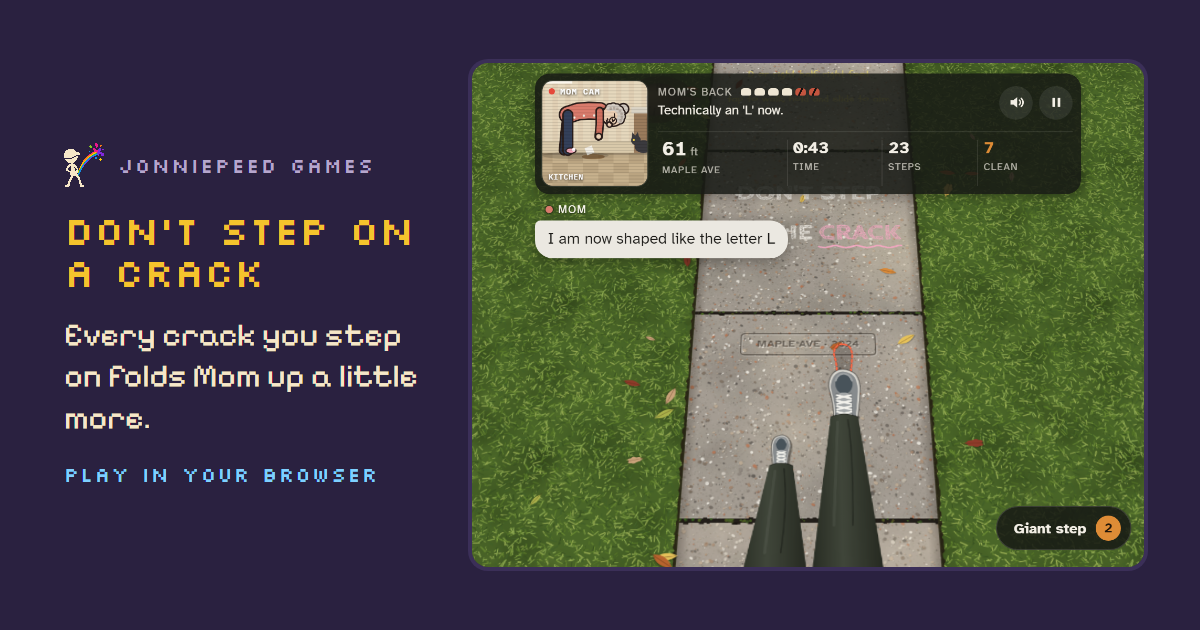
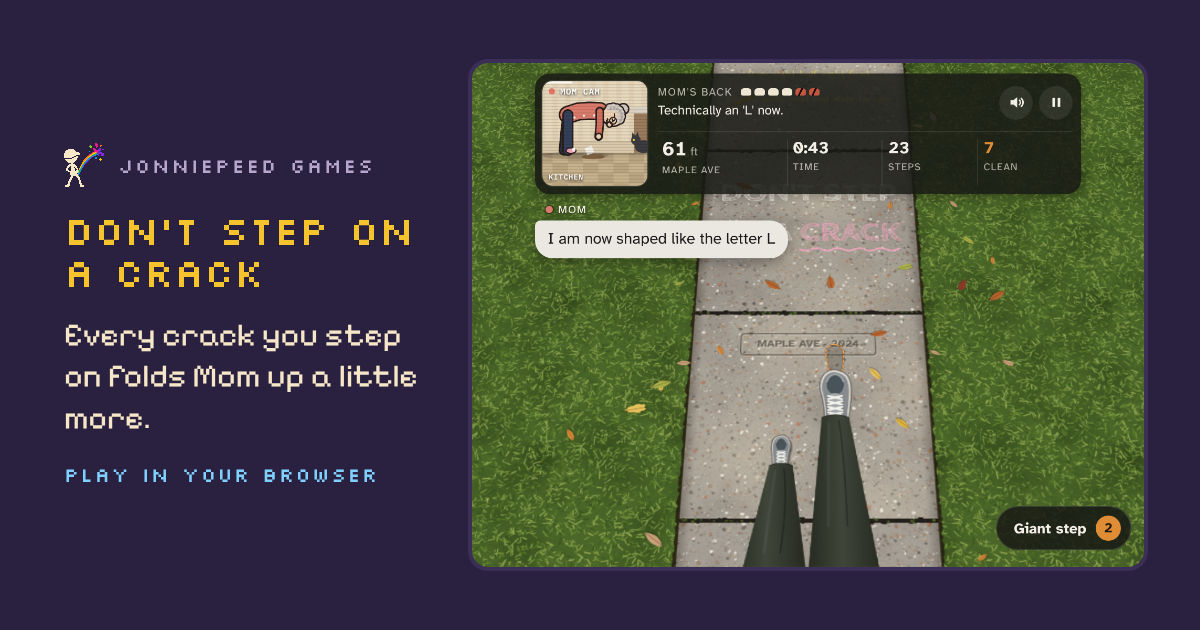
Crack: title and sidewalk chalk say "on a crack"; rebuild its preview card
Claude-Session: https://claude.ai/code/session_013nkDz5hsq9tbfZtJqMt9Ru

diff --git a/site/dont-step-on-a-crack/index.html b/site/dont-step-on-a-crack/index.html
@@ -11,14 +11,14 @@
 <meta property="og:title" content="Don't Step on a Crack · JonniePeed Games">
 <meta property="og:description" content="Step on a crack, break your mother's back. Every one you step on folds Mom up a little more, and she'll be sure to make you feel bad about it.">
 <meta property="og:url" content="https://jonniesparkles.github.io/jonniepeed-games/dont-step-on-a-crack/index.html">
-<meta property="og:image" content="https://jonniesparkles.github.io/jonniepeed-games/assets/og/dont-step-on-a-crack.png?v=2db2985a9f">
+<meta property="og:image" content="https://jonniesparkles.github.io/jonniepeed-games/assets/og/dont-step-on-a-crack.png?v=8b6f8e6532">
 <meta property="og:image:width" content="1200">
 <meta property="og:image:height" content="630">
 <meta property="og:image:alt" content="Looking down at your sneakers on a cracked sidewalk, with a security-camera view of Mom folded in half in her kitchen">
 <meta name="twitter:card" content="summary_large_image">
 <meta name="twitter:title" content="Don't Step on a Crack · JonniePeed Games">
 <meta name="twitter:description" content="Step on a crack, break your mother's back. Every one you step on folds Mom up a little more, and she'll be sure to make you feel bad about it.">
-<meta name="twitter:image" content="https://jonniesparkles.github.io/jonniepeed-games/assets/og/dont-step-on-a-crack.png?v=2db2985a9f">
+<meta name="twitter:image" content="https://jonniesparkles.github.io/jonniepeed-games/assets/og/dont-step-on-a-crack.png?v=8b6f8e6532">
 <meta name="twitter:image:alt" content="Looking down at your sneakers on a cracked sidewalk, with a security-camera view of Mom folded in half in her kitchen">
 <link rel="icon" href="../favicon.ico?v=443c0101ac" sizes="any">
 <link rel="icon" type="image/png" href="../assets/favicon-32.png?v=569f3f592d">
@@ -328,7 +328,7 @@ html,body{height:100%;margin:0;overflow:hidden;background:var(--ground);color:va
       <a class="studio" href="../index.html"><img src="../assets/mark-pixel-dark.png?v=39bbd450b3" width="40" height="44" alt="">JonniePeed Games</a>
       <div class="t-wrap">
         <header class="t-head">
-          <h1 class="t-title chalky"><span class="l1">Don't step</span><span class="l2">on the</span><span class="l3">crack<svg class="fissure" viewBox="0 0 100 100" preserveAspectRatio="none" aria-hidden="true"><path d="M4 30 L18 44 L15 52 L31 58 L36 70 L52 64 L60 78 L74 72 L83 86 L97 80"/></svg><svg class="scrib" viewBox="0 0 200 20" preserveAspectRatio="none" aria-hidden="true"><path d="M3 12 C 28 3, 52 19, 78 10 S 124 3, 150 12 S 184 17, 197 7"/></svg></span></h1>
+          <h1 class="t-title chalky"><span class="l1">Don't step</span><span class="l2">on a</span><span class="l3">crack<svg class="fissure" viewBox="0 0 100 100" preserveAspectRatio="none" aria-hidden="true"><path d="M4 30 L18 44 L15 52 L31 58 L36 70 L52 64 L60 78 L74 72 L83 86 L97 80"/></svg><svg class="scrib" viewBox="0 0 200 20" preserveAspectRatio="none" aria-hidden="true"><path d="M3 12 C 28 3, 52 19, 78 10 S 124 3, 150 12 S 184 17, 197 7"/></svg></span></h1>
           <p class="t-rhyme chalky">Step on a crack, break your mother's back.</p>
         </header>
         <section class="t-mom" aria-label="Mom">
@@ -396,6 +396,6 @@ html,body{height:100%;margin:0;overflow:hidden;background:var(--ground);color:va
 </div>
 <script src="audio.js?v=ee24ca3134"></script>
 <script src="../assets/leaderboard.js?v=8745bbbf93"></script>
-<script src="game.js?v=38b9741640"></script>
+<script src="game.js?v=f572faaa56"></script>
 </body>
 </html>

diff --git a/site/dont-step-on-a-crack/game.js b/site/dont-step-on-a-crack/game.js
@@ -526,10 +526,10 @@ function drawChalk(g,c,sl,d0,tx,ty){
   if(sl.chalk==='title'){
     let fs=0.95*K; const font=f=>`700 ${f}px "Cabin Sketch", "Schoolbell", cursive`;
     h.font=font(fs);
-    const w=Math.max(h.measureText("DON'T STEP").width,h.measureText('ON THE CRACK').width);
+    const w=Math.max(h.measureText("DON'T STEP").width,h.measureText('ON A CRACK').width);
     fs*=Math.min(1,4.3*K/w); h.font=font(fs);
     h.textAlign='center'; h.fillStyle='#fbf8f1'; h.fillText("DON'T STEP",tx(2.5),ty(d0+3.55));
-    const a='ON THE ', b='CRACK', wa=h.measureText(a).width, wb=h.measureText(b).width, x0=tx(2.5)-(wa+wb)/2, y2=ty(d0+2.3);
+    const a='ON A ', b='CRACK', wa=h.measureText(a).width, wb=h.measureText(b).width, x0=tx(2.5)-(wa+wb)/2, y2=ty(d0+2.3);
     h.textAlign='left'; h.fillText(a,x0,y2); h.fillStyle='#f7a8c4'; h.fillText(b,x0+wa,y2);
     h.strokeStyle='#f7a8c4'; h.lineWidth=0.05*K; h.lineCap='round'; h.beginPath();
     for(let x=0;x<=wb;x+=4){const yy=y2+fs*0.58+Math.sin(x*0.25)*fs*0.05; x?h.lineTo(x0+wa+x,yy):h.moveTo(x0+wa+x,yy);} h.stroke();

diff --git a/site/index.html b/site/index.html
@@ -83,7 +83,7 @@ footer img{width:20px;height:22px;image-rendering:pixelated}
   <h2>Games</h2>
   <div class="grid">
     <a class="card pink" href="dont-step-on-a-crack/index.html">
-      <div class="thumb"><img src="assets/thumb-dont-step-on-a-crack.webp?v=c1c08a473a" width="768" height="576" alt="Looking down at sneakers on a chalked sidewalk, with a Mom Cam showing Mom folded in half in her kitchen"></div>
+      <div class="thumb"><img src="assets/thumb-dont-step-on-a-crack.webp?v=1688c44e39" width="768" height="576" alt="Looking down at sneakers on a chalked sidewalk, with a Mom Cam showing Mom folded in half in her kitchen"></div>
       <div class="info">
         <span class="tag">Game · phone or desktop</span>
         <h3>Don't Step on a Crack</h3>
